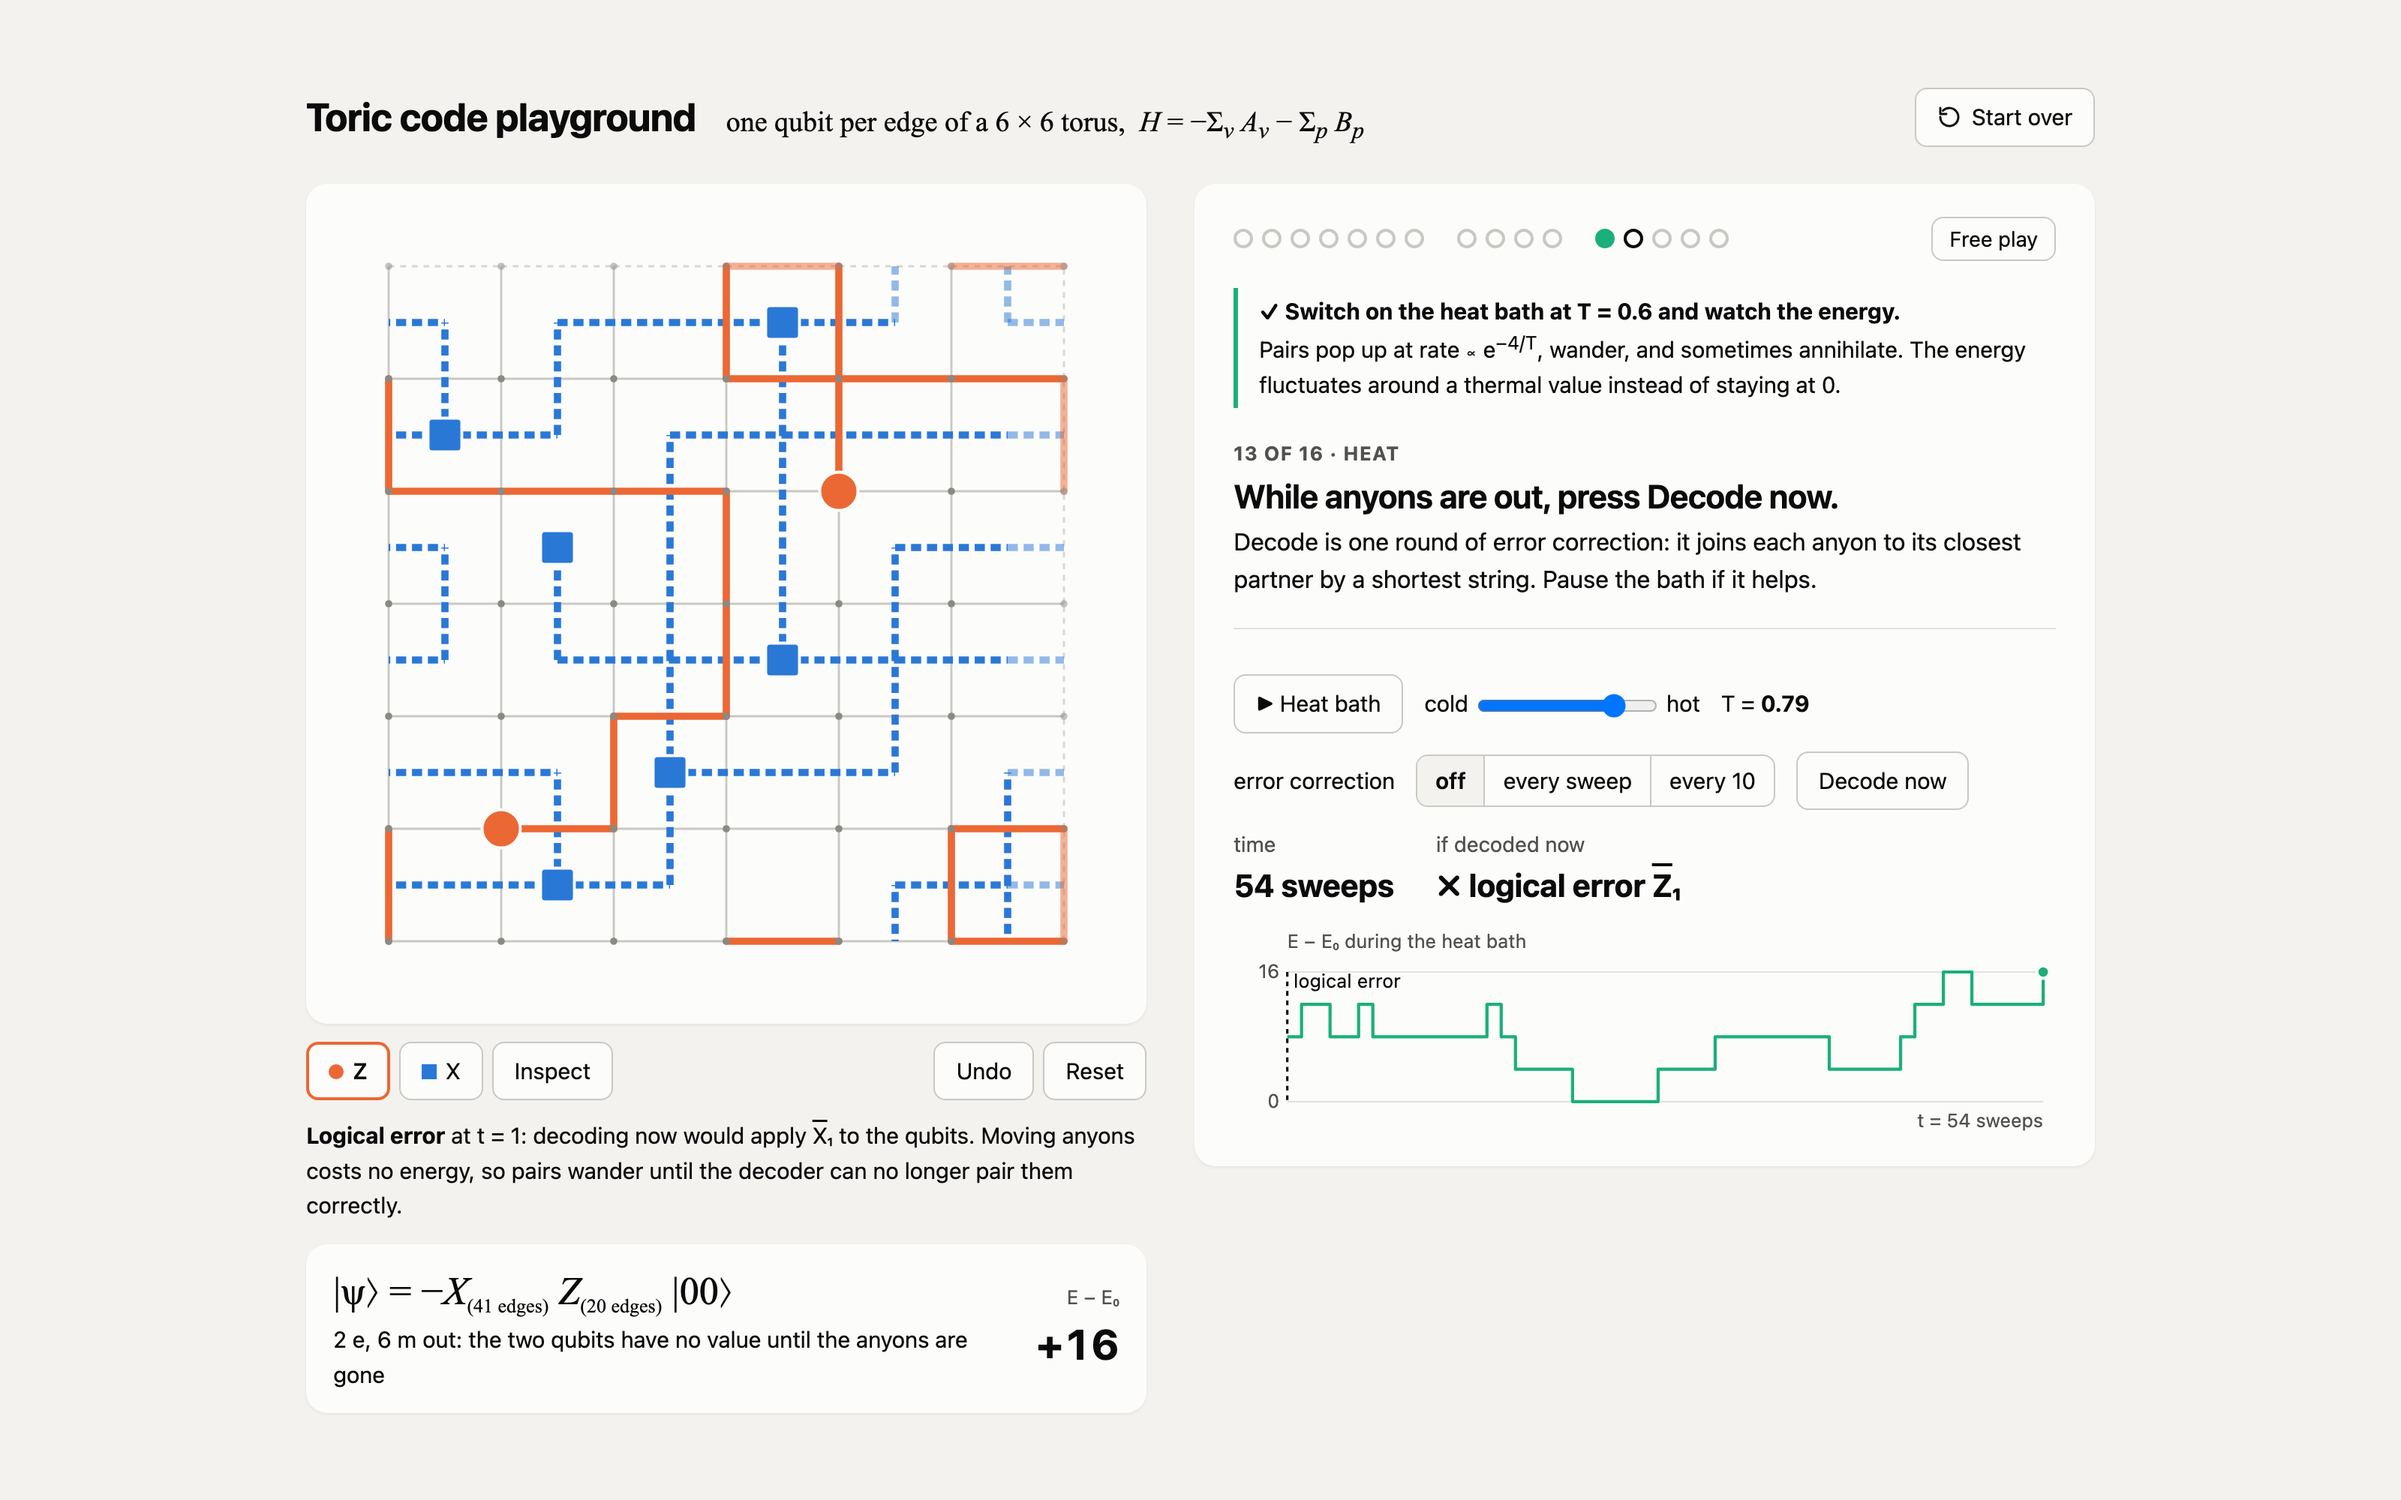
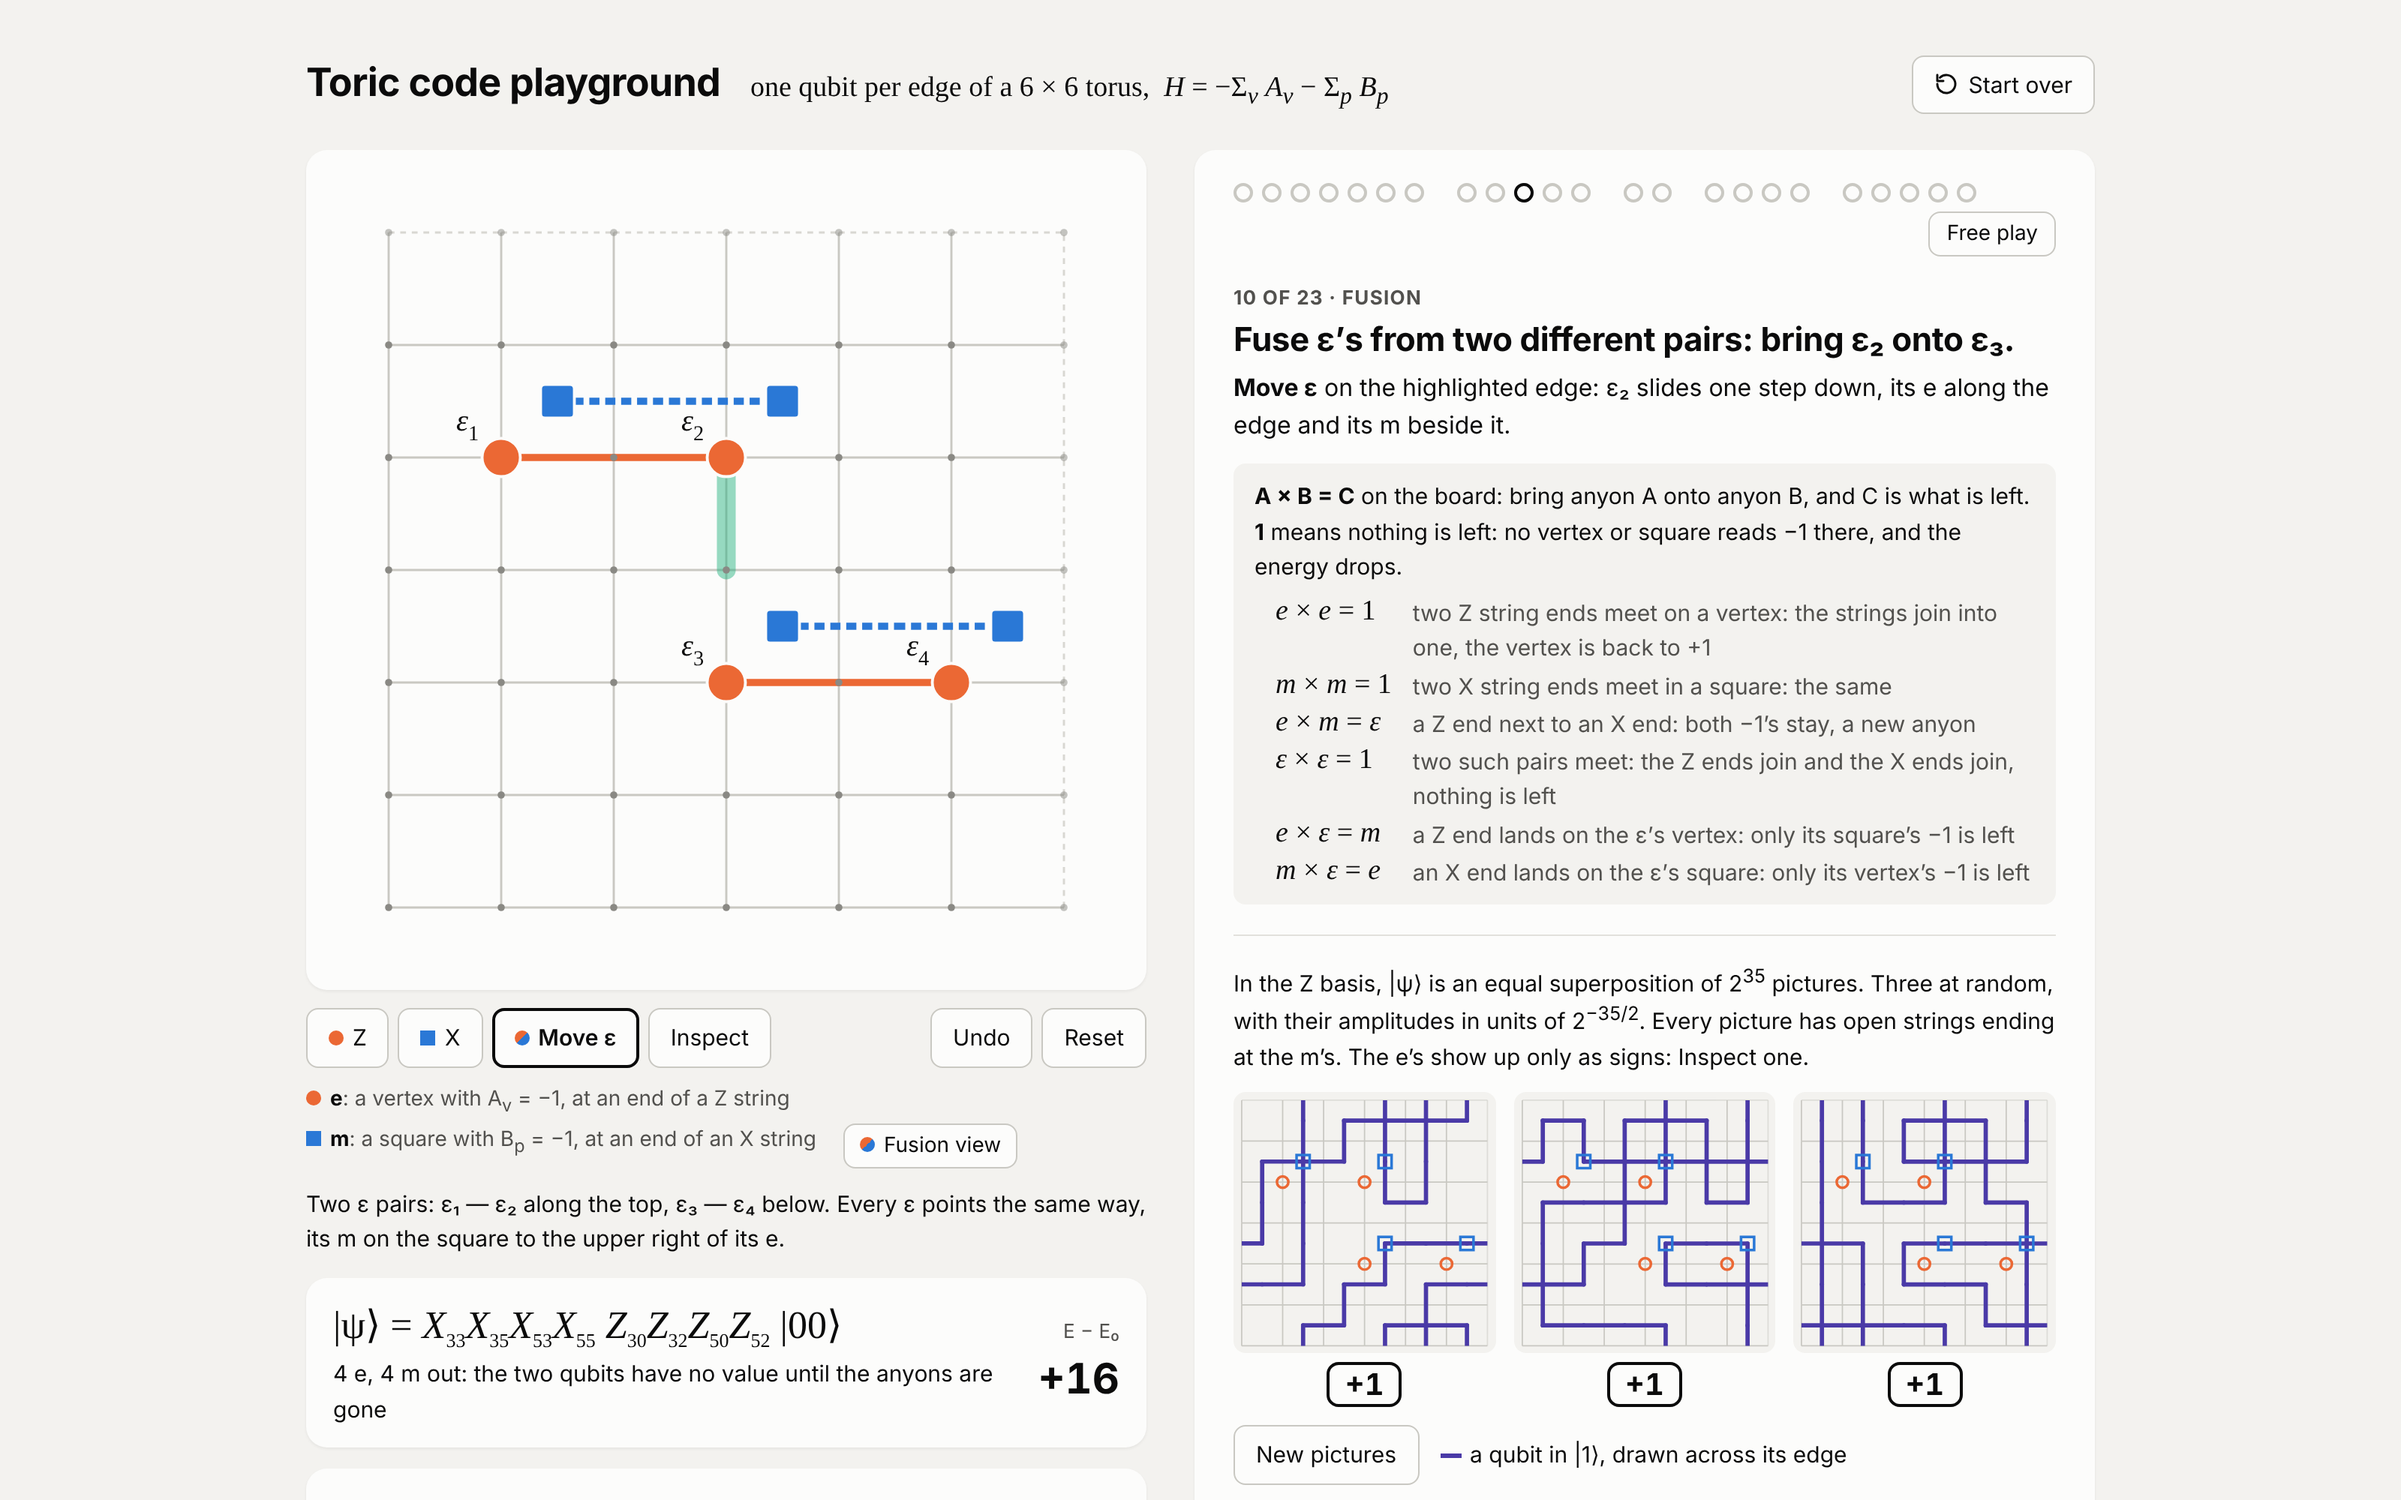
README: fusion mission screenshot up front
Claude-Session: https://claude.ai/code/session_01VLVzRoH5mh5s6tNt4aKDcG

diff --git a/README.md b/README.md
@@ -1,6 +1,6 @@
 # toric-code-playground
 
-[![The toric code playground with the heat bath on: thermal anyons and their strings on a 6 x 6 torus, the decoder reporting a logical error, and the energy over time](app/screenshot.png)](https://liukelyu.github.io/toric-code-playground/)
+[![The toric code playground in the fusion mission: two labelled pairs of epsilon anyons (an e next to an m) on a 6 x 6 torus, the next edge to move highlighted, and the fusion rules e x e = 1, m x m = 1, e x m = epsilon, epsilon x epsilon = 1](app/screenshot.png)](https://liukelyu.github.io/toric-code-playground/)
 
 *Why I built this.* Topological order, anyons, braiding: I have learned these words many times, but they never truely clicked, I did not have enough intuition for them. I built this mini project to get that intuition myself, by applying gates by hand and watching what they do to the state.
 
